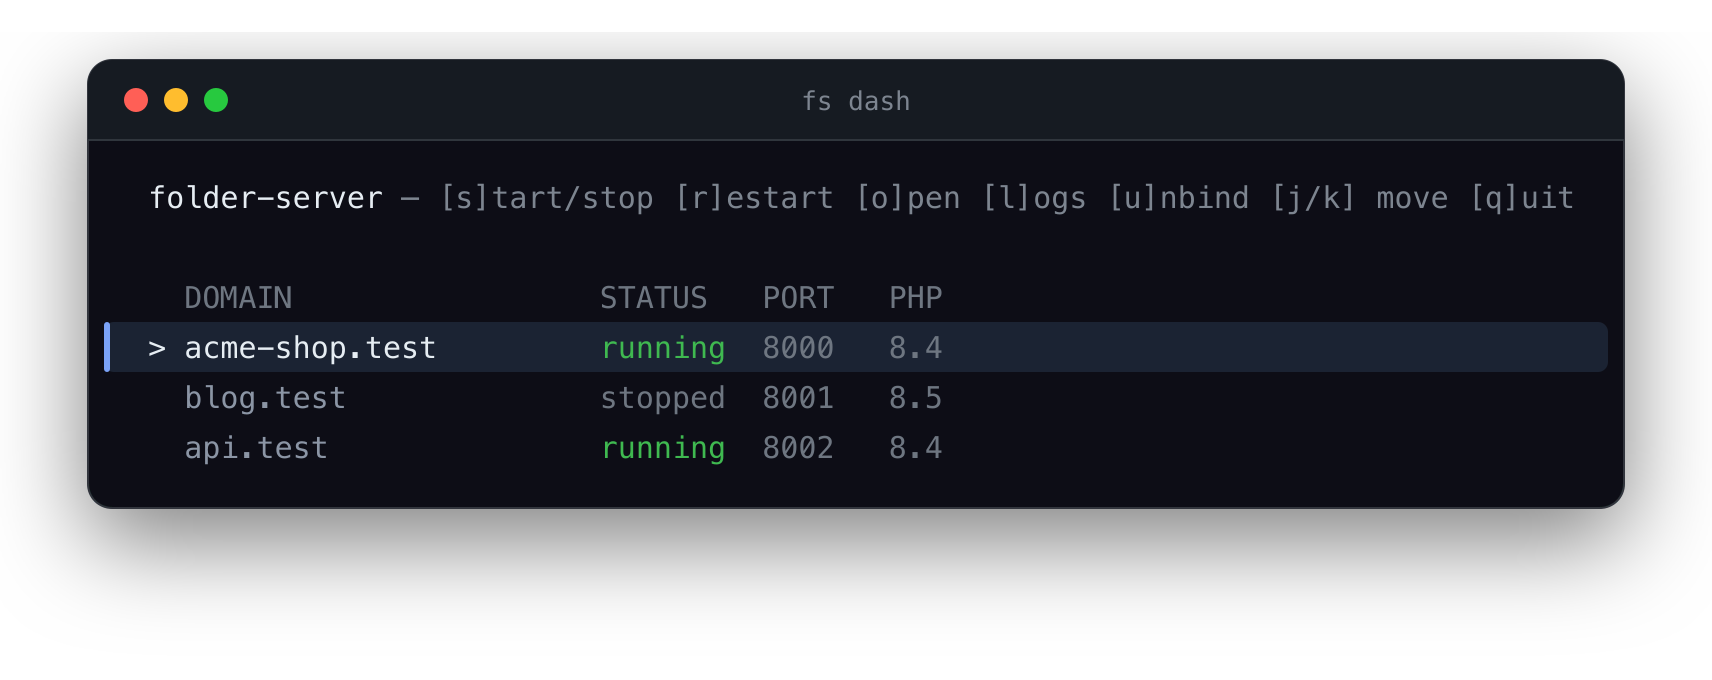
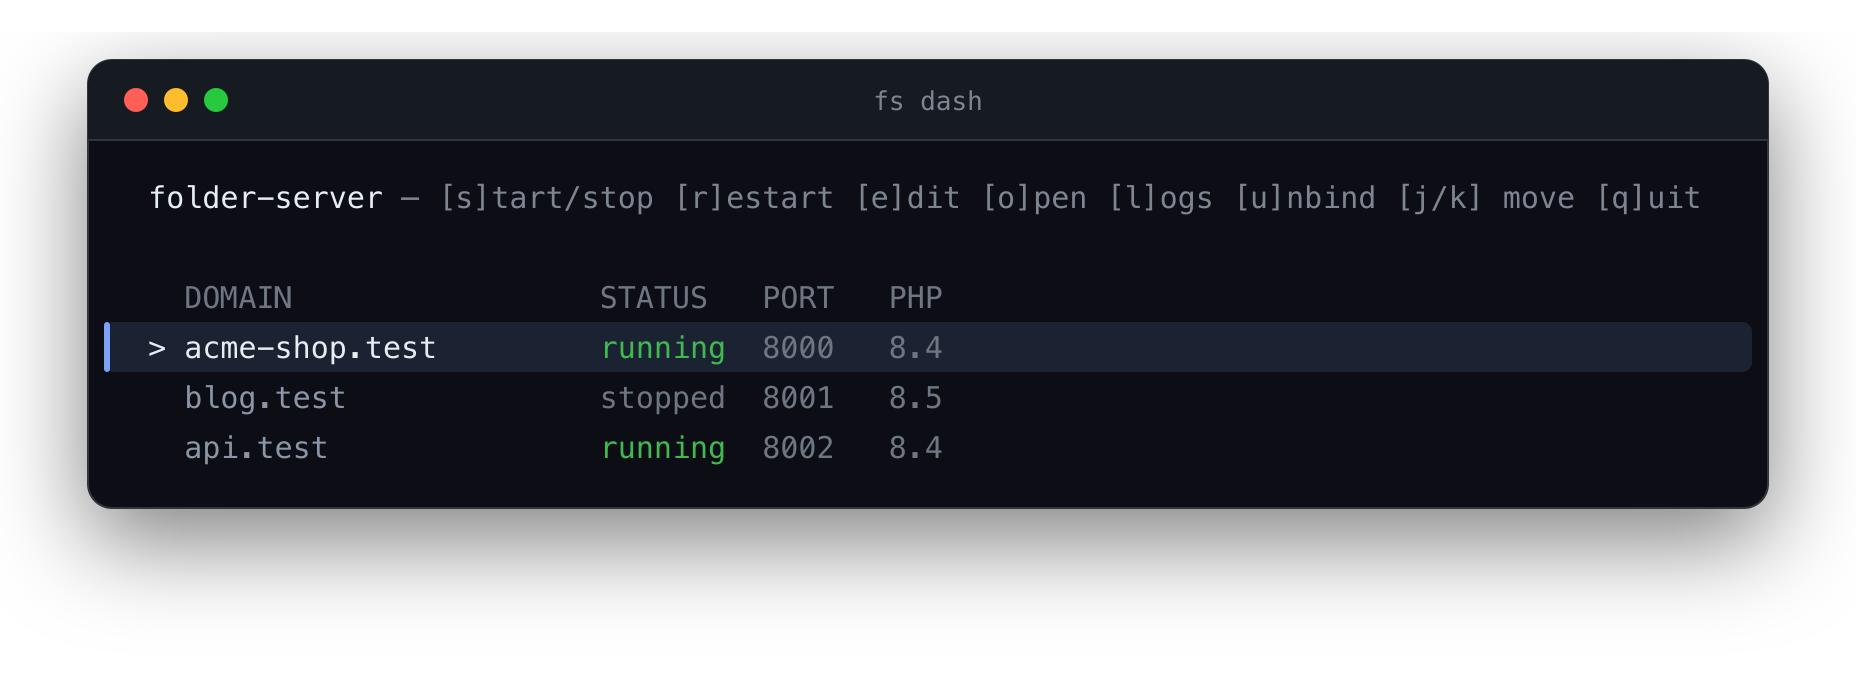
feat: [e]dit command + MySQL provisioning + gum-driven init
Adds an interactive config editor and full MySQL support:

- fs edit / dashboard [e]: gum form to change PHP version, toggle front-controller
  routing (+ script name), and toggle MySQL (+ name/user/password). Running sites
  are restarted afterward to apply changes.
- fs init: same gum form — now includes the routing and MySQL steps.
- New .folderserver keys: db, db_name, db_user, db_pass.
- db=on provisioning: on 'fs up', start MySQL, CREATE DATABASE, CREATE USER with
  full grants (both @'%' and @'localhost') so mysqli_connect(127.0.0.1, user,
  pass, name) works. Connects as root (Homebrew default). db name/user validated
  to [A-Za-z0-9_]; password single-quotes escaped, backslash/backtick rejected.
- Shared fs_write_config + _fs_prompt_config power both init and edit (DRY).
- fs_default_dbname derives a MySQL-safe name from the folder.
- Dashboard: selection clamping already handles the shrinking list; [e]dit key
  added to the header; screenshot regenerated (wider window, [e]dit shown).
- Docs: README documents db=* keys, the mysqli_connect example, and the
  plaintext-credentials caveat.

Tests: +13 (db.bats, edit.bats) incl. provisioning SQL, escaping, validation,
up-provisions-db, edit guards, real CLI dispatch. 78/78 total, shellcheck clean.

diff --git a/README.md b/README.md
@@ -25,12 +25,16 @@ and a live terminal dashboard.
 ## Usage
 
     cd ~/Sites/my-project
-    fs init               # writes .folderserver
+    fs init               # interactive setup → writes .folderserver
     fs up                 # serves https://my-project.test
     fs list               # see all sites
-    fs dash               # live dashboard
+    fs dash               # live dashboard (per-site [e]dit, [u]nbind, …)
+    fs edit               # change php / routing / MySQL for this folder
     fs down               # stop
     fs db start           # MySQL when you need it
+
+`fs init` (and the dashboard's `[e]dit`) walk you through the PHP version,
+optional front-controller routing, and optional MySQL (with a login/password).
 
 ## Config: `.folderserver`
 
@@ -38,6 +42,10 @@ and a live terminal dashboard.
     php=8.4
     docroot=public
     rewrite=index.php     # optional — front-controller routing (see below)
+    db=on                 # optional — provision MySQL on `fs up` (see below)
+    db_name=my_project
+    db_user=app
+    db_pass=secret
 
 ### Front-controller routing (`rewrite`)
 
@@ -50,5 +58,18 @@ For apps that need the classic "send unknown URLs to `index.php`" rewrite
 `fs up` then serves existing files (static assets and real `.php`) directly and
 routes every other request to that file — the same behaviour `.htaccess`
 `RewriteRule` gives you. Omit `rewrite` for plain static + direct `.php` access.
+
+### MySQL (`db`)
+
+Set `db=on` with a `db_user`/`db_pass` (and optional `db_name`, defaulting to the
+folder name) and `fs up` will start MySQL, create the database, and create the
+user with full grants on it — so this just works:
+
+```php
+$mysqli = mysqli_connect('127.0.0.1', 'app', 'secret', 'my_project');
+```
+
+Provisioning connects to MySQL as `root` (the Homebrew default). Credentials are
+stored in plaintext in `.folderserver` — don't commit it if the password matters.
 
 See `docs/superpowers/specs/2026-07-04-folder-server-design.md` for the design.
